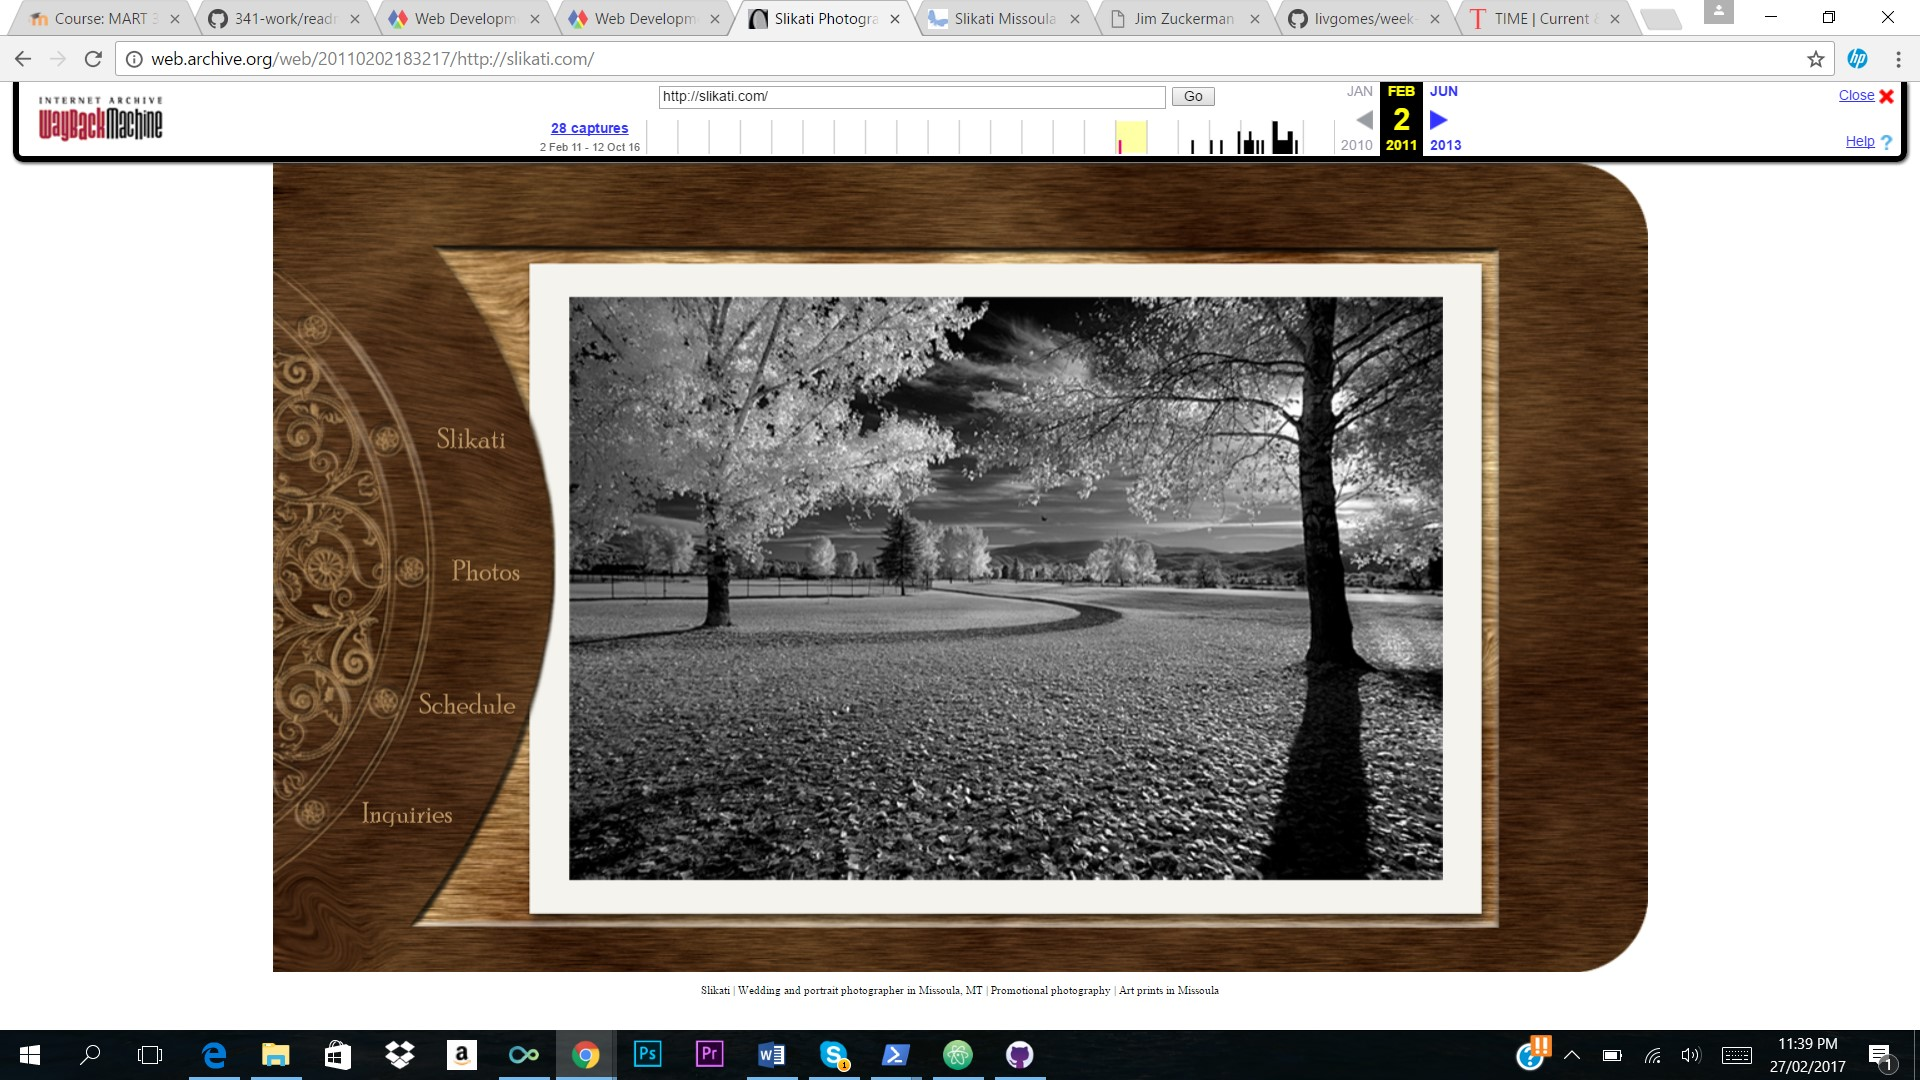
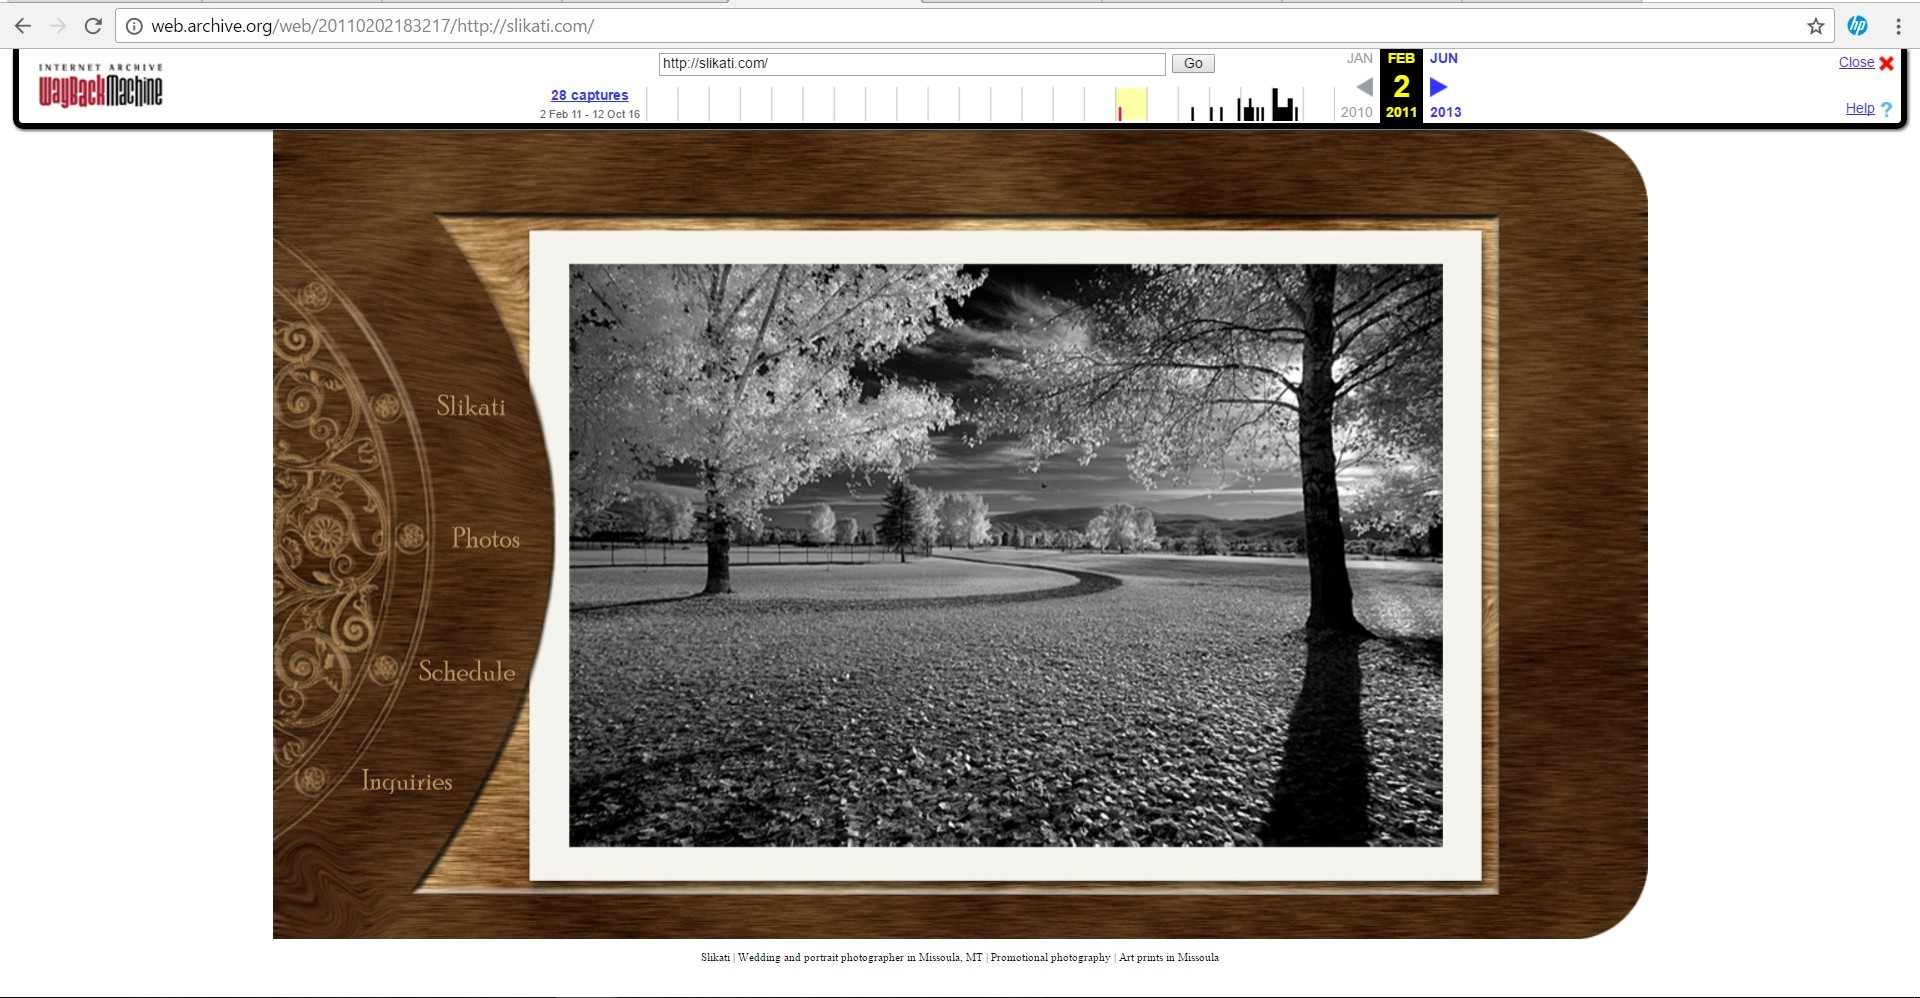
last touches

diff --git a/readme.md b/readme.md
@@ -27,10 +27,23 @@ Some examples include;
 
 A hyperlink is a direct link to another source, this could be a direct source to another area of the same webpage, a link to another webpage, a link to an email address etc.
 
-## Screenshot
+**Inspecting Code**
 
+This week we learnt how to inspect the code of different HTML webpages. Using my chrome browser, I was able to view the codes used when creating the HTML webpage. This was access by simply right clicking on the web page and selecting `inspect`. I found this extremly interesting to see and extremly helping for this weeks assignment, as it helped me greatly solve problems I was having, when trying to attach different links to my webpage.
+
+
+## Wayback Machine
+
+**Time magazine
+
+This week we used the wayback machine to serach the archives of a webpage, at which i chose time magazine. While looking at time magazine, I jumped from the present 2017 to 2006 and finally 1999. This was such a fun exercise, as the change in the webpage over time was quite noticable and interesting to view.
+The time magazine in 2017 
 ![Time Magazine 2017](time magazine 2017.jpg).
 
 ![Time Magazine 2006](time magazine 2006.jpg).
 
 ![Time magazine 1999](time magazine 1999.jpg).
+
+![Slikati 2017](slikati 2017.jpg).
+
+![Slikati 2011](Slikati 2011.jpg).
